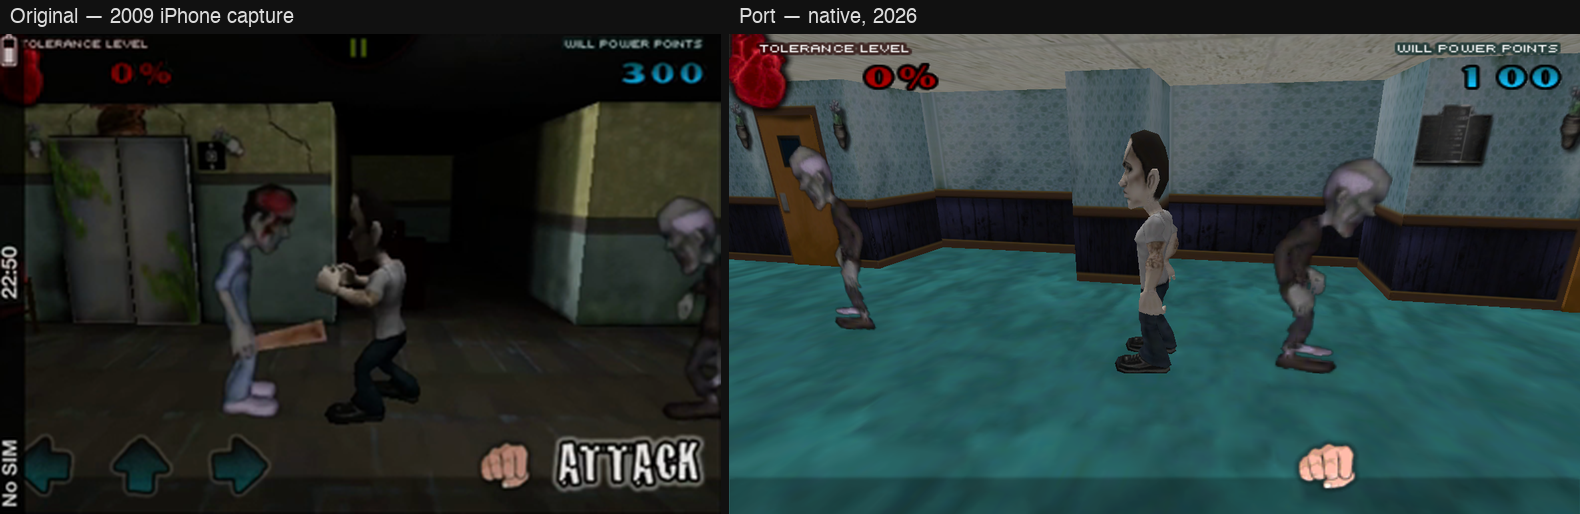
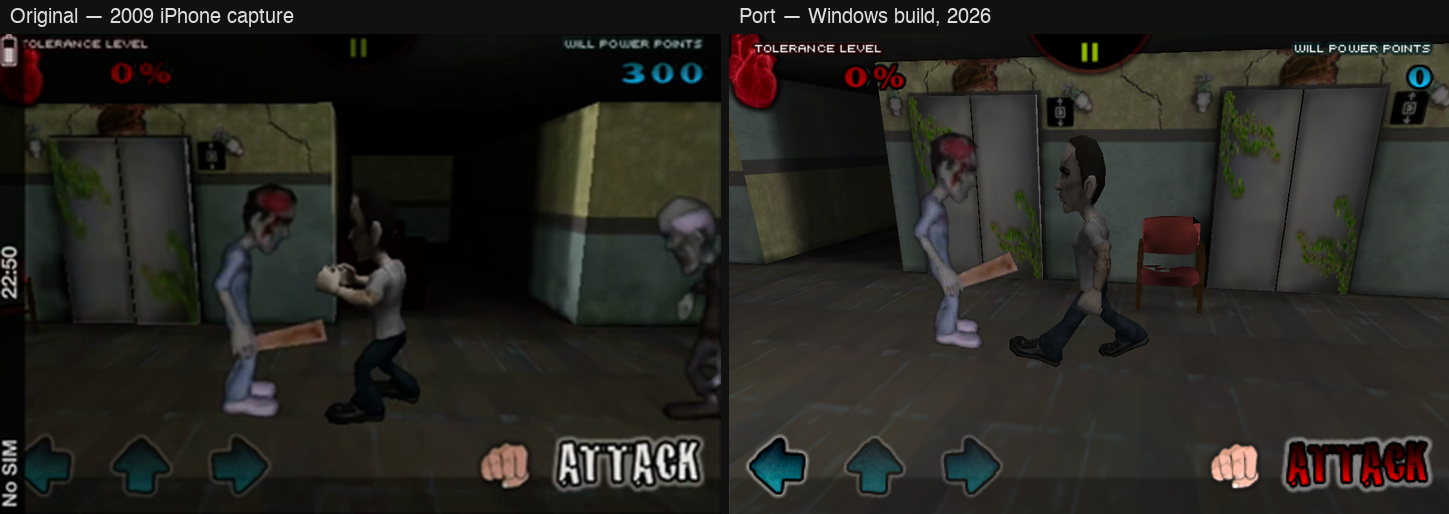
Like-for-like screenshots: fresh Windows captures with full touch UI

diff --git a/_posts/2026-08-17-relapse-resistance.md b/_posts/2026-08-17-relapse-resistance.md
@@ -94,9 +94,9 @@ all attack with the table's `Syringe` entry. It was cut between the
 announcement and launch, its stats left behind in the code, then promised
 back for 1.1.
 
-![Original capture next to the port: an orderly swings a plank in the 2009
-footage, while the code underneath attacks with the Syringe
-entry](/assets/images/cmp_combat.png) And when you
+![Level 2 in the 2009 capture and in the port's Windows build: same
+elevators, same chair, same patient swinging a plank — while the code
+underneath attacks with the Syringe entry](/assets/images/cmp_combat.png) And when you
 finish the game, the ending video closes on three words in scratched
 grindhouse type: **TO BE CONTINUED…** — I pulled that frame out of the
 shipped `end.m4v` myself.
@@ -332,8 +332,10 @@ pak (skeleton, skinned mesh, weapon attachments bound to wrist joints, 37
 clips), and a game pak (sprite atlases with precomputed UVs, all audio
 pre-decoded to 22.05 kHz mono PCM16 so the runtime needs no codec).
 
-![Level 1 in the 2009 iPhone capture and in the native port: same corridor,
-same HUD layout, same teal carpet](/assets/images/cmp_level1.png)
+![The title screen, original and port](/assets/images/cmp_title.png)
+
+![Level 1 in the 2009 iPhone capture and in the port's Windows build: same
+corridor, same HUD, same on-screen controls](/assets/images/cmp_level1.png)
 
 The source, the extraction tools and the audit documents are on GitHub:
 [AdamLovattDevOps/relapse-resistance](https://github.com/AdamLovattDevOps/relapse-resistance).
